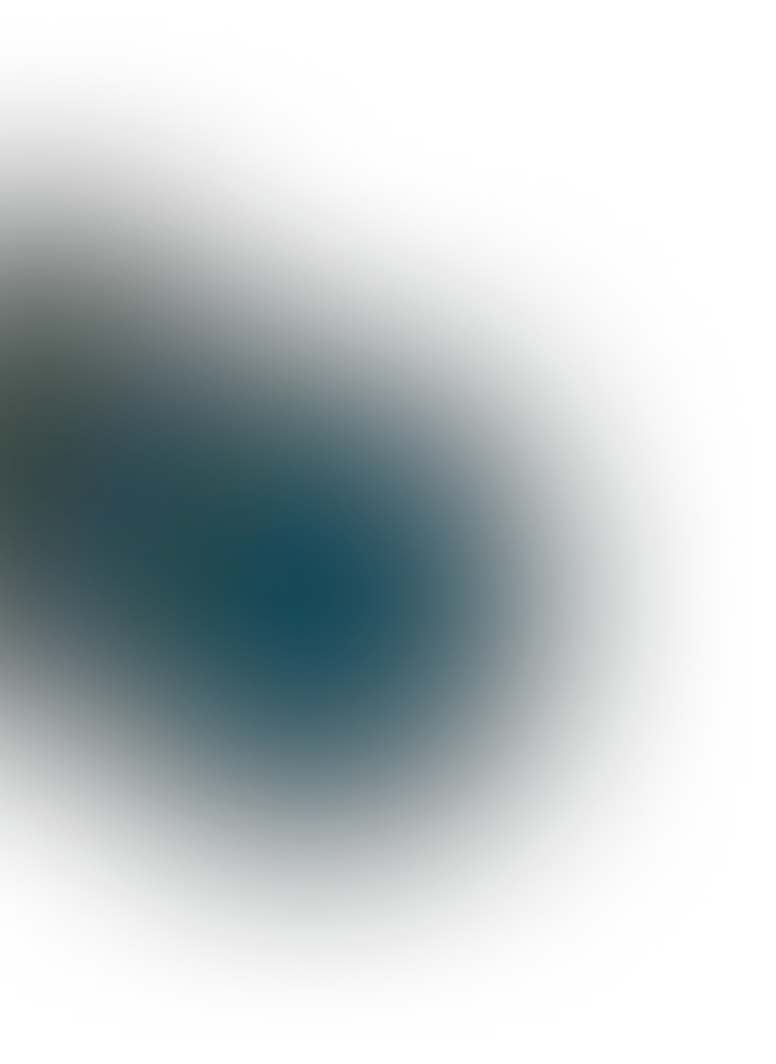
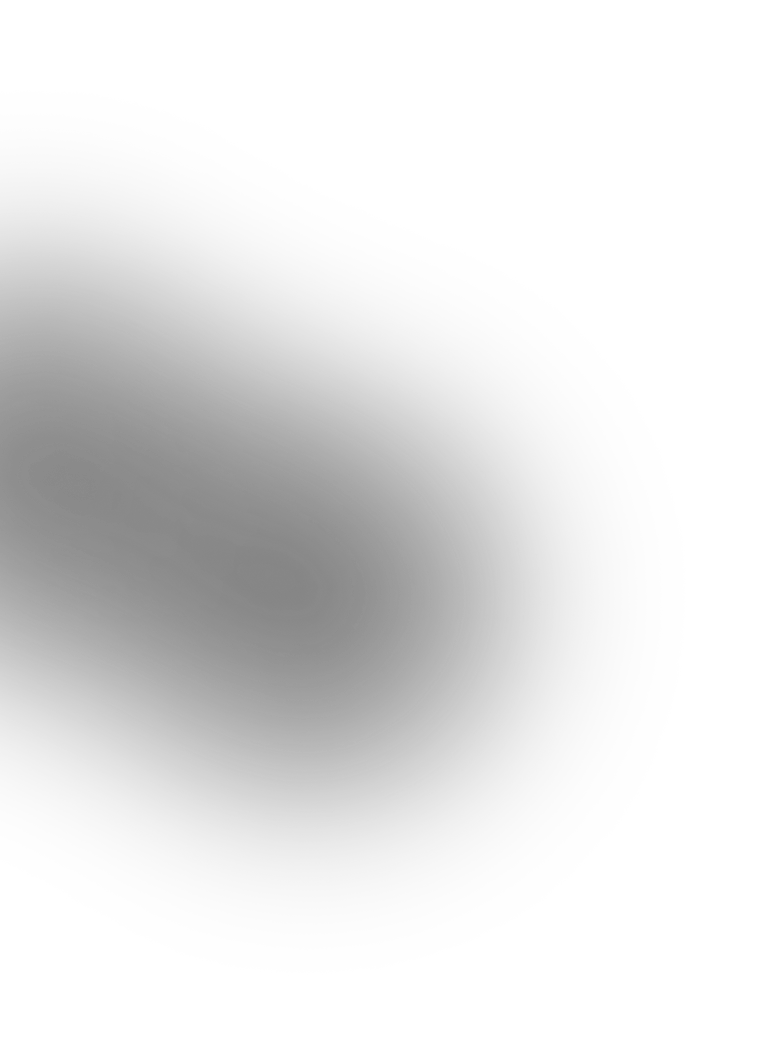
Updated UI

diff --git a/src/App.css b/src/App.css
@@ -39,7 +39,7 @@ body {
   font-weight: 400;
   overflow-x: hidden;
   position: relative;
-  background-color: rgb(76, 69, 100) !important;
+  background-color: rgba(63, 63, 63, 0.779) !important;
   color: #fff !important;
   font-family: 'Centra', sans-serif !important;
 }
@@ -101,14 +101,14 @@ nav.navbar {
 }
 nav.navbar.scrolled {
   padding: 0px 0;
-  background-color: #00000059;
+  background-color: #e6e6e6a8;
 }
 nav.navbar a.navbar-brand {
     width: 9%;
 }
 nav.navbar .navbar-nav .nav-link.navbar-link {
   font-weight: 400;
-  color: #fff !important;
+  color: #000000 !important;
   letter-spacing: 0.8px;
   padding: 0 25px;
   font-size: 18px;
@@ -130,7 +130,7 @@ span.navbar-text {
 .social-icon button{
   width: 42px;
     height: 42px;
-    background: rgba(217, 217, 217, 0.1);
+    background: rgba(9, 225, 128, 0.1);
     display: inline-flex;
     border-radius: 50%;
     margin-right: 6px;
@@ -143,7 +143,7 @@ span.navbar-text {
 .social-icon a {
     width: 42px;
     height: 42px;
-    background: rgba(217, 217, 217, 0.1);
+    background: rgba(0, 0, 0, 0.584);
     display: inline-flex;
     border-radius: 50%;
     margin-right: 6px;
@@ -175,13 +175,13 @@ span.navbar-text {
 }
 .navbar-text button {
   font-weight: 700;
-  color: #fff;
-  border: 1px solid #fff;
+  color: #000000;
+  border: 1px solid #000000;
   padding: 10px 25px;
   font-size: 18px;
   margin-left: 18px;
 	position: relative;
-	background-color: transparent;
+	background-color: #ccffe542;
 	transition: 0.3s ease-in-out;
 }
 .navbar-text button span {
@@ -302,7 +302,7 @@ nav.navbar .navbar-toggler[aria-expanded="true"] .navbar-toggler-icon {
 
 /* Modal Close Button */
 .custom-modal .custom-close-btn {
-  background: rgb(54.1 170 152);
+  background: rgb(56, 56, 56);
   border: none;
   cursor: pointer;
   position: absolute;
@@ -313,12 +313,12 @@ nav.navbar .navbar-toggler[aria-expanded="true"] .navbar-toggler-icon {
 }
 
 .custom-modal .custom-close-btn:hover {
-  background: rgb(54.1 170 152) !important;
+  background: rgb(0, 0, 0) !important;
   border: 1px solid #fff;
   border-right: 3px solid #ffffff !important;
   border-bottom: 2px solid #ffffff !important;
   box-shadow: 2px 2px 0 #ffffff, 
-              0 0 0 #AA367C; 
+              0 0 0 #000000; 
   transition: border-right-width 0.2s ease-out, 
               border-bottom-width 0.2s ease-out, 
               box-shadow 0.2s ease-out; 
@@ -394,7 +394,7 @@ nav.navbar .navbar-toggler[aria-expanded="true"] .navbar-toggler-icon {
 }
 
 .resume-modal .custom-close-btn {
-  background: rgb(54.1 170 152);
+  background: rgb(49, 49, 49);
   border: none;
   cursor: pointer;
   position: absolute;
@@ -405,7 +405,7 @@ nav.navbar .navbar-toggler[aria-expanded="true"] .navbar-toggler-icon {
 }
 
 .resume-modal .custom-close-btn:hover {
-  background: rgb(54.1 170 152) !important;
+  background: rgb(28, 28, 28) !important;
   border: 1px solid #fff;
   border-right: 3px solid #ffffff !important;
   border-bottom: 2px solid #ffffff !important;
@@ -464,7 +464,7 @@ nav.navbar .navbar-toggler[aria-expanded="true"] .navbar-toggler-icon {
 .email-button {
   display: flex;
   align-items: center;
-  background-color: #6d62e3 !important;
+  background-color: #242424 !important;
   border: 1px solid #fff !important;
   color: #fff;
   border: none;
@@ -676,7 +676,7 @@ nav.navbar .navbar-toggler[aria-expanded="true"] .navbar-toggler-icon {
   font-weight: 700;
   letter-spacing: 0.8px;
   padding: 8px 10px;
-  background: linear-gradient(90.21deg, rgba(98, 98, 98, 0.189) -5.91%, rgba(50, 50, 50, 0.258) 111.58%);
+  background: linear-gradient(90.21deg, rgba(61, 60, 60, 0.244) -5.91%, rgba(19, 19, 19, 0.258) 111.58%);
   border: 1px solid rgba(255, 255, 255, 0.5);
   font-size: 20px;
   margin-bottom: 16px;
@@ -698,7 +698,7 @@ nav.navbar .navbar-toggler[aria-expanded="true"] .navbar-toggler-icon {
   width: 96%;
 }
 .banner button {
-  color: #fff;
+  color: #000000;
   font-weight: 700;
   font-size: 20px;
   margin-top: 60px;
@@ -719,9 +719,14 @@ nav.navbar .navbar-toggler[aria-expanded="true"] .navbar-toggler-icon {
   opacity: 80%;
 }
 
+.introduction {
+  color: #4d4d4d;
+}
+
 .txt-rotate {
   font-size: 45px;
   display: inline-block;
+  color: #4d4d4d;
 }
 
 .txt-rotate > .wrap {
@@ -770,7 +775,7 @@ nav.navbar .navbar-toggler[aria-expanded="true"] .navbar-toggler-icon {
 	font-weight: 700;
 }
 .skill p {
-    color: #B8B8B8;
+    color: #e7e7e7;
     font-size: 18px;
     letter-spacing: 0.8px;
     line-height: 1.5em;
@@ -825,7 +830,7 @@ nav.navbar .navbar-toggler[aria-expanded="true"] .navbar-toggler-icon {
 .project {
   padding: 80px 0;
   position: relative;
-  background-color: rgba(117, 117, 117, 0.349);
+  background-color: rgba(255, 255, 255, 0);
 }
 .project h2 {
 	font-size: 45px;
@@ -833,7 +838,7 @@ nav.navbar .navbar-toggler[aria-expanded="true"] .navbar-toggler-icon {
   text-align: center;
 }
 .project p {
-  color: #B8B8B8;
+  color: #f4f4f4;
   font-size: 18px;
   letter-spacing: 0.8px;
   line-height: 1.5em;
@@ -845,7 +850,7 @@ nav.navbar .navbar-toggler[aria-expanded="true"] .navbar-toggler-icon {
   width: 72%;
   margin: 0 auto;
   border-radius: 50px;
-  background-color: rgb(255 255 255 / 10%);
+  background-color: rgba(205, 203, 203, 0.1);
   overflow: hidden;
 }
 .project .nav.nav-pills .nav-item {
@@ -870,7 +875,7 @@ nav.navbar .navbar-toggler[aria-expanded="true"] .navbar-toggler-icon {
     position: absolute;
     width: 0;
     height: 100%;
-    background: linear-gradient(90.21deg,rgb(54.1 170 152) -5.91%, rgba(74, 47, 189, 0.5) 111.58%);
+    background: linear-gradient(90.21deg,rgb(54.1 170 152) -5.91%, rgba(69, 69, 69, 0.5) 111.58%);
     top: 0;
     left: 0;
     z-index: -1;
@@ -1001,9 +1006,10 @@ nav.navbar .navbar-toggler[aria-expanded="true"] .navbar-toggler-icon {
 
 /************ Contact ************/
 .contact {
-  background: linear-gradient(90.21deg, rgba(105, 117, 155, 0.5) -5.91%, rgb(191, 131, 139) 111.58%);
+  background: linear-gradient(180deg, rgba(255, 255, 255, 0) 0%, rgb(153, 152, 152) 100%);
   padding: 60px 0 70px 0;
 }
+
 .contact img {
   width: 92%;
 }
@@ -1102,7 +1108,7 @@ nav.navbar .navbar-toggler[aria-expanded="true"] .navbar-toggler-icon {
 }
 
 .accessibility-toggle {
-  background-color: #007bff;
+  background-color: #262626;
   color: #fff;
   border: none;
   border-radius: 50%;

diff --git a/src/components/Banner.js b/src/components/Banner.js
@@ -62,7 +62,7 @@ export const Banner = () => {
               {({ isVisible }) =>
               <div className={isVisible ? "animate__animated animate__fadeIn" : ""}>
                 <span className="tagline">Welcome to my Portfolio</span>
-                <h1>{`Hi, I'm Zara `}<br />
+                <h1><span className="introduction">{`Hi, I'm Zara `}<br /></span>
                 <span className="txt-rotate" data-period="500" data-rotate='[ "Software Development", "AI and Data Science", "Machine Learning" ]'><span className="wrap">{text}</span></span></h1>
                 <div className="banner-text"><p>I am currently pursuing a Computer Science degree with specialization in Data Science. My interests span AI, software development, and machine learning. 
                     I'm always eager to connect and explore innovative opportunities and collaborations.</p></div>
